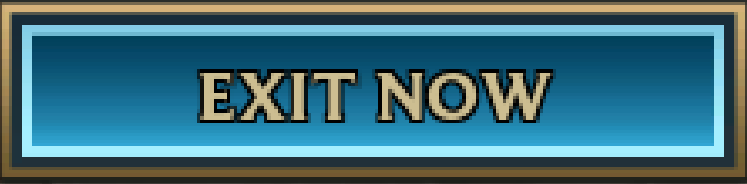
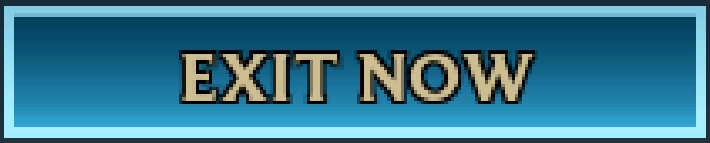
Update Exit Now Button, Add Continue Button Check, Reorganize Legacy/Original Images

diff --git a/constants.py b/constants.py
@@ -50,6 +50,7 @@ CONSTANTS = {
                 "expanded": "captures/buttons/accept_expanded.png",
             }
         },
+        "continue": "captures/buttons/continue.png",
         "death": "captures/death.png",
         "reconnect": "captures/buttons/reconnect.png",
         "key_fragment": {
@@ -82,6 +83,7 @@ CONSTANTS = {
         "exit_now": {
             "base": "captures/buttons/exit_now_base.png",
             "highlighted": "captures/buttons/exit_now_highlighted.png",
+            "original": "captures/buttons/exit_now_original.png",
         },
         "settings": "captures/buttons/settings.png",
         "surrender": {
@@ -162,12 +164,13 @@ find_match_images = [
 exit_now_images = [
     CONSTANTS["game"]["exit_now"]["base"],
     CONSTANTS["game"]["exit_now"]["highlighted"],
+    CONSTANTS["game"]["exit_now"]["original"],
 ]
 
 skip_waiting_for_stats_images = [
-    CONSTANTS["client"]["post_game"]["skip_waiting_for_stats"]["original"],
     CONSTANTS["client"]["post_game"]["skip_waiting_for_stats"]["base"],
     CONSTANTS["client"]["post_game"]["skip_waiting_for_stats"]["highlighted"],
+    CONSTANTS["client"]["post_game"]["skip_waiting_for_stats"]["original"],
 ]
 
 key_fragment_images = [

diff --git a/tft.py b/tft.py
@@ -438,10 +438,14 @@ def check_if_game_complete() -> bool:
         click_to_middle(CONSTANTS["client"]["death"])
         time.sleep(3)
     if onscreen_multiple_any(exit_now_images):
-        logging.info("End of game detected")
+        logging.info("End of game detected (exit now)")
         exit_now_bool = click_to_middle_multiple(exit_now_images, conditional_func=exit_now_conditional, delay=1.5)
         logging.debug(f"Exit now clicking success: {exit_now_bool}")
         time.sleep(4)
+    if onscreen(CONSTANTS["client"]["continue"]):
+        logging.info("End of game detected (continue)")
+        click_to_middle(CONSTANTS["client"]["continue"])
+        time.sleep(3)
     return (
         onscreen(CONSTANTS["client"]["post_game"]["play_again"])
         or onscreen(CONSTANTS["client"]["pre_match"]["quick_play"])
